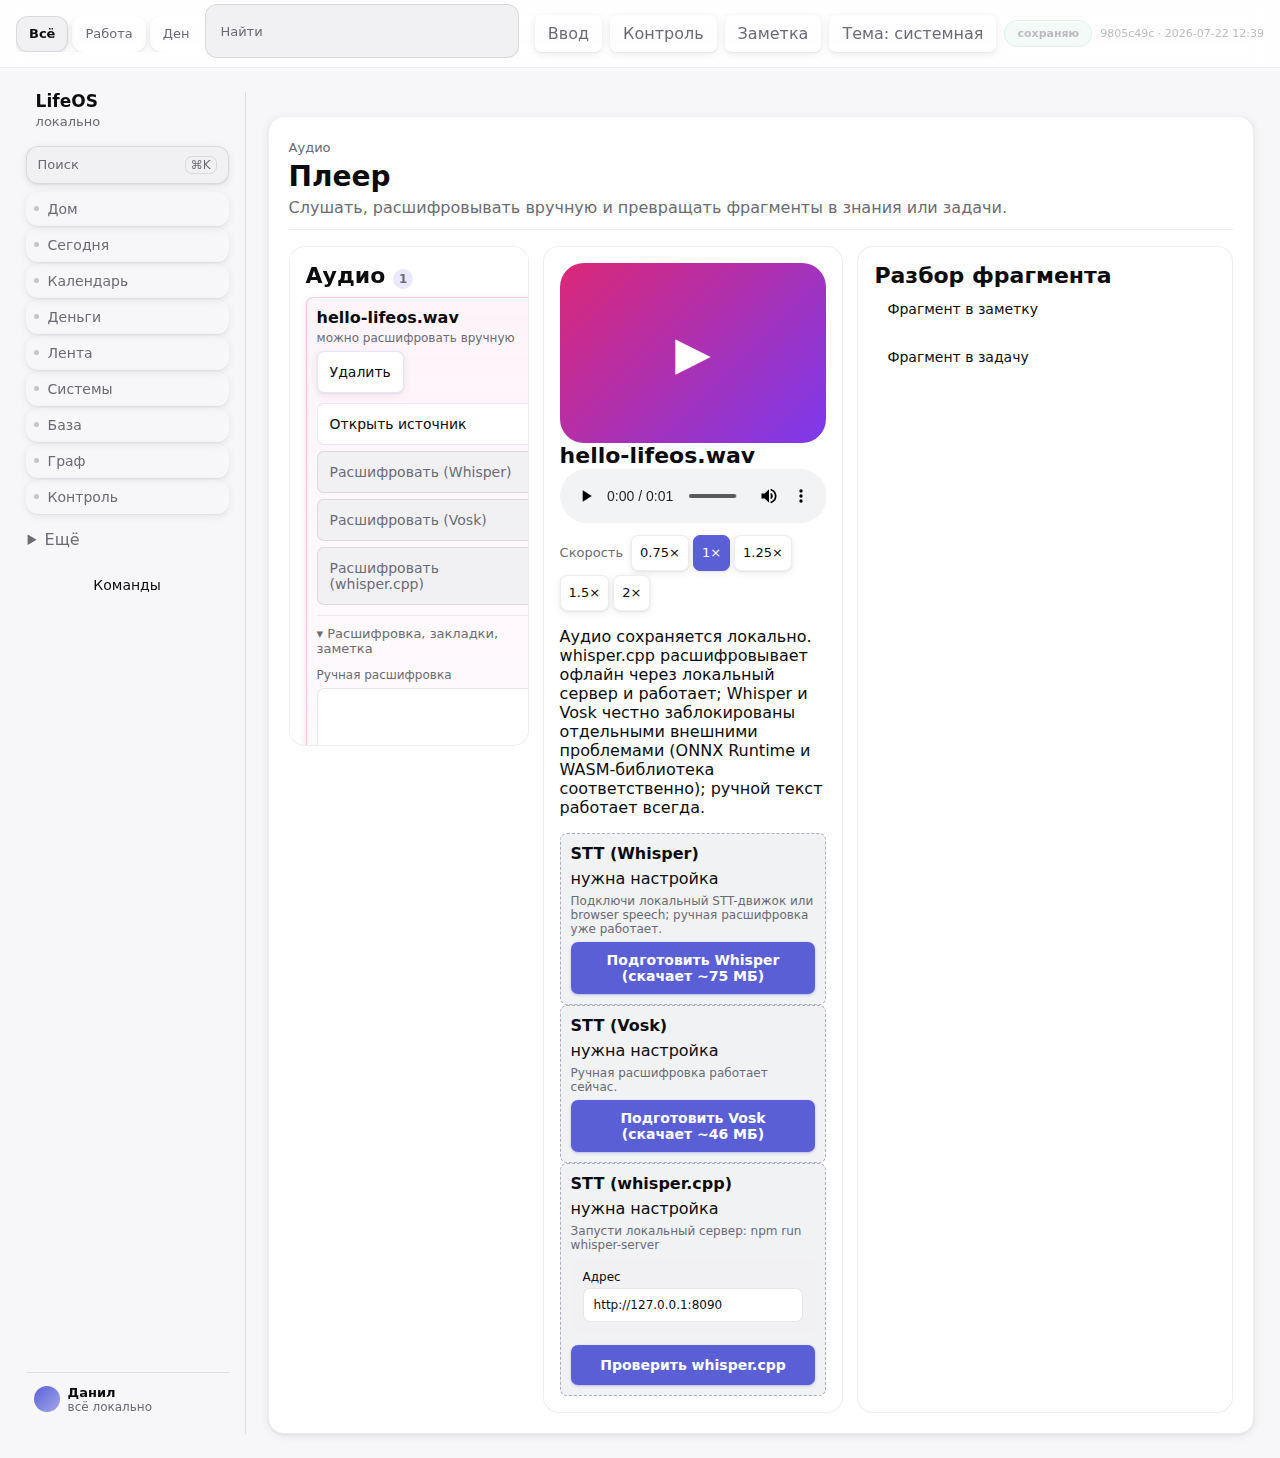
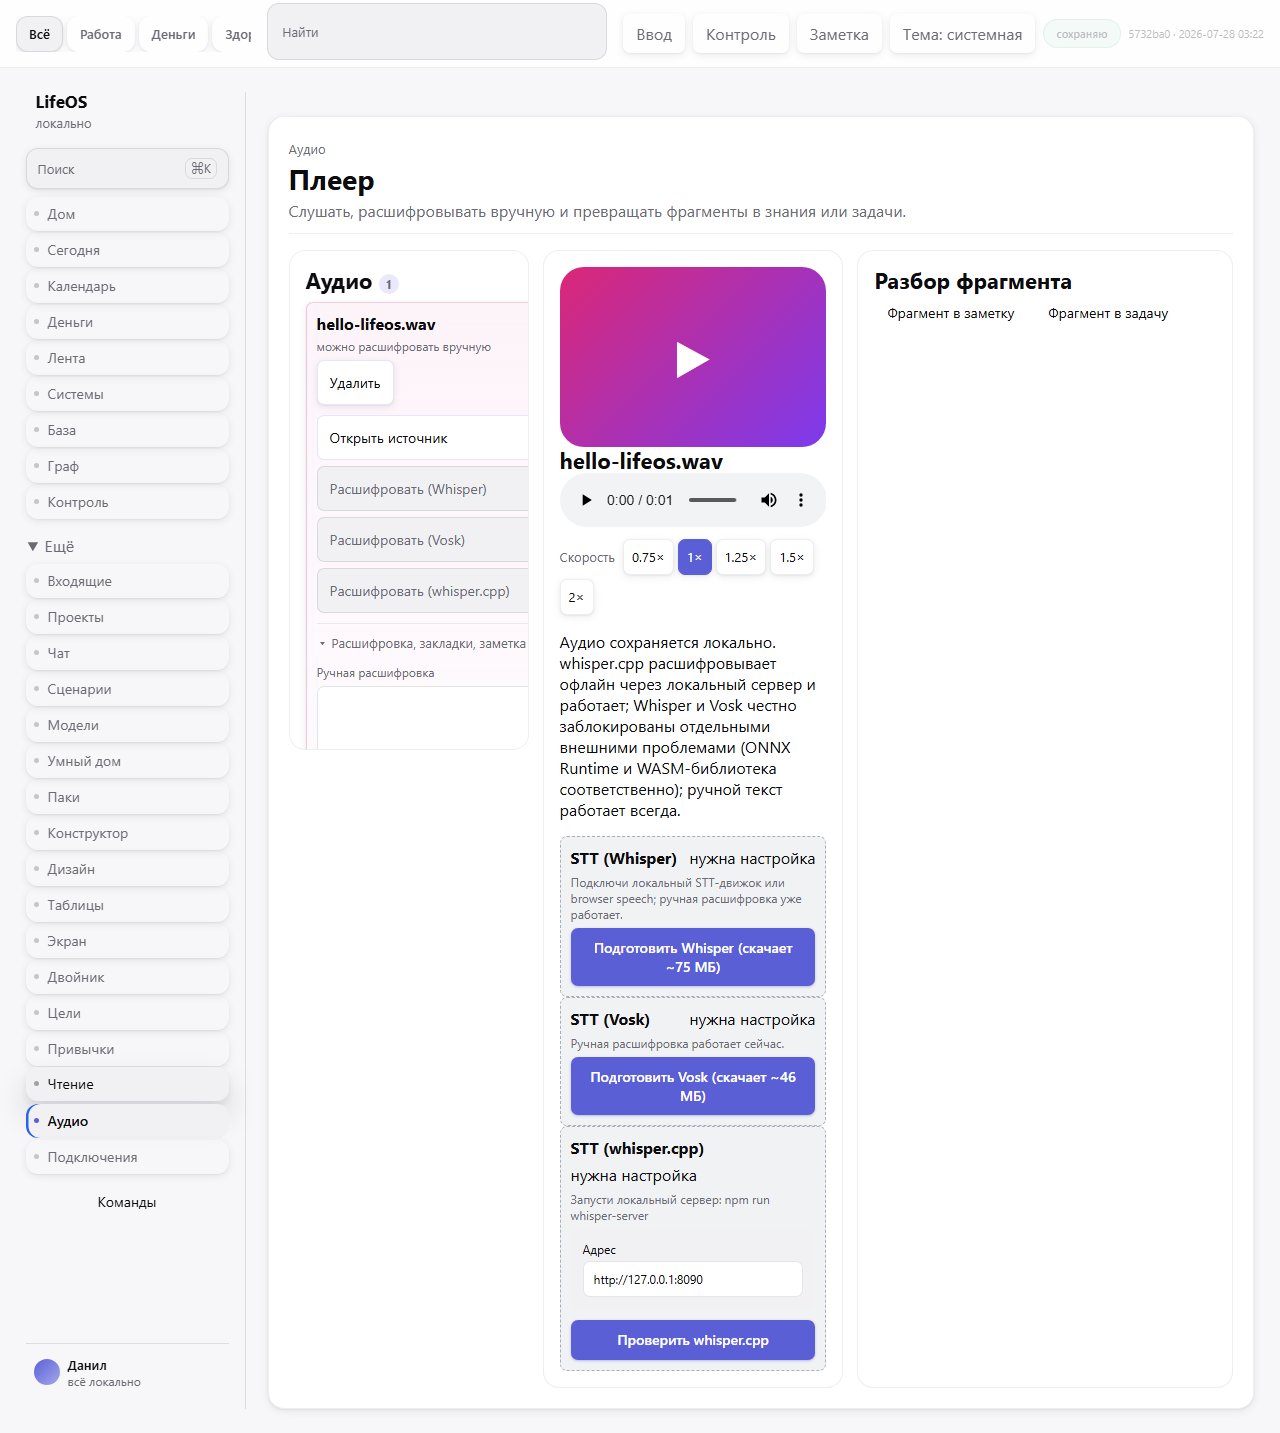
Вторичное меню «Ещё» больше не закрывается под рукой
Меню было родным <details>, а перерисовка заменяет весь DOM после ЛЮБОГО
действия — раскрытие терялось мгновенно. Экраны «Аудио», «Чтение», «Чат» живут
именно там, поэтому путь к ним рвался: владелец писал «нажимаешь — всё
ломается», а спека про плеер падала не на плеере, а на невидимой кнопке.

Раскрытие теперь живёт в состоянии (navMoreOpen, добавлено И в дефолты, И в
normalizeState — иначе стёрлось бы молча). Тот же приём в репозитории уже дважды
применён: для тулбара чата и настроек графа, и для сворачиваемых панелей.

Сторож: nav-more-stays-open.spec.mjs — раскрывает меню, делает действие,
проверяет что оно пережило перерисовку, и доходит кликом до экрана «Аудио».

Побочно починилось: reader-position-bookmarks (аудио-закладки) — падала
именно на этом, а не на закладках.

Гейты: 13/13 по экранам, ходящим через это меню (панели, поиск, быстрые
действия Дома, голосовой круг whisper.cpp, первый экран). verify, 27 из 28
аудитов, build-public.

diff --git a/app.js b/app.js
@@ -1210,6 +1210,10 @@ function createInitialState() {
     // расшифровывается, расшифровано, звука нет) всегда берётся из самой записи при отрисовке,
     // иначе на экране жила бы вторая, устаревающая копия правды.
     captureAttachments: [],
+    // Вторичное меню «Ещё». Родной <details> схлопывается на КАЖДОЙ перерисовке, а перерисовка
+    // идёт после любого действия: владелец раскрывал меню, оно закрывалось под рукой, и путь к
+    // экранам «Аудио», «Чтение», «Чат» рвался. Состояние раскрытия живёт здесь.
+    navMoreOpen: false,
     chatDraft: "",
     commandMessage: "Локальное хранилище готово",
     lastSavedAt: "",
@@ -2663,6 +2667,7 @@ function normalizeState(input) {
     lensDraft: normalizeLensDraft(base.lensDraft),
     panelOpen: normalizePanelOpen(base.panelOpen),
     captureDraft: String(base.captureDraft || ""),
+    navMoreOpen: Boolean(base.navMoreOpen),
     captureAttachments: Array.isArray(base.captureAttachments) ? base.captureAttachments.filter((id) => typeof id === "string" && id).slice(-8) : [],
     commandMessage: base.commandMessage || "Локальное хранилище готово",
     lastSavedAt: base.lastSavedAt || "",
@@ -13082,6 +13087,7 @@ function buildNewShellContext(state, activeNote, runtimeSignals = {}) {
     audioSources: sources.filter((source) => source.kind === "audio"),
     bookSources: sources.filter(isBookSource),
     budgets: Object.values(state.budgets || {}).filter((item) => !item.deleted),
+    navMoreOpen: Boolean(state.navMoreOpen),
     captureDraft: state.captureDraft || "",
     // Статус каждого прикреплённого файла считается ЗДЕСЬ, из самой записи, а не хранится
     // рядом с идентификатором: иначе на экране жила бы устаревающая копия правды.
@@ -23144,6 +23150,12 @@ async function handleAction(action, id) {
   }
   if (action === "delete-saved-search") {
     await store.commit("Сохраненный поиск удален", (state) => deleteSavedSearch(state, id));
+    return;
+  }
+  if (action === "toggle-nav-more") {
+    await store.commit("Вторичное меню переключено", (state) => {
+      state.navMoreOpen = !state.navMoreOpen;
+    });
     return;
   }
   if (action === "set-surface") {

diff --git a/public-demo/app.js b/public-demo/app.js
@@ -1210,6 +1210,10 @@ function createInitialState() {
     // расшифровывается, расшифровано, звука нет) всегда берётся из самой записи при отрисовке,
     // иначе на экране жила бы вторая, устаревающая копия правды.
     captureAttachments: [],
+    // Вторичное меню «Ещё». Родной <details> схлопывается на КАЖДОЙ перерисовке, а перерисовка
+    // идёт после любого действия: владелец раскрывал меню, оно закрывалось под рукой, и путь к
+    // экранам «Аудио», «Чтение», «Чат» рвался. Состояние раскрытия живёт здесь.
+    navMoreOpen: false,
     chatDraft: "",
     commandMessage: "Локальное хранилище готово",
     lastSavedAt: "",
@@ -2663,6 +2667,7 @@ function normalizeState(input) {
     lensDraft: normalizeLensDraft(base.lensDraft),
     panelOpen: normalizePanelOpen(base.panelOpen),
     captureDraft: String(base.captureDraft || ""),
+    navMoreOpen: Boolean(base.navMoreOpen),
     captureAttachments: Array.isArray(base.captureAttachments) ? base.captureAttachments.filter((id) => typeof id === "string" && id).slice(-8) : [],
     commandMessage: base.commandMessage || "Локальное хранилище готово",
     lastSavedAt: base.lastSavedAt || "",
@@ -13082,6 +13087,7 @@ function buildNewShellContext(state, activeNote, runtimeSignals = {}) {
     audioSources: sources.filter((source) => source.kind === "audio"),
     bookSources: sources.filter(isBookSource),
     budgets: Object.values(state.budgets || {}).filter((item) => !item.deleted),
+    navMoreOpen: Boolean(state.navMoreOpen),
     captureDraft: state.captureDraft || "",
     // Статус каждого прикреплённого файла считается ЗДЕСЬ, из самой записи, а не хранится
     // рядом с идентификатором: иначе на экране жила бы устаревающая копия правды.
@@ -23144,6 +23150,12 @@ async function handleAction(action, id) {
   }
   if (action === "delete-saved-search") {
     await store.commit("Сохраненный поиск удален", (state) => deleteSavedSearch(state, id));
+    return;
+  }
+  if (action === "toggle-nav-more") {
+    await store.commit("Вторичное меню переключено", (state) => {
+      state.navMoreOpen = !state.navMoreOpen;
+    });
     return;
   }
   if (action === "set-surface") {

diff --git a/public-demo/ui/shell.js b/public-demo/ui/shell.js
@@ -73,7 +73,9 @@ function renderNav(ctx) {
     // Открывает уже существующую палитру команд — не новый механизм.
     `<button class="nav-search-v3" data-action="open-command-palette" data-testid="nav-search-v3">Поиск<span>⌘K</span></button>`,
     `<nav data-testid="home-workspace-rail">${primaryNav.map((row) => navButton(ctx, row)).join("")}</nav>`,
-    `<details class="nav-more" data-testid="app-ribbon"><summary>Ещё</summary><div>${secondaryNav.map((row) => navButton(ctx, row)).join("")}</div></details>`,
+    // Раскрытие «Ещё» держится состоянием, а не браузером: родной <details> теряет открытость на
+    // каждой перерисовке, а она случается после любого действия — меню закрывалось под рукой.
+    `<details class="nav-more" data-testid="app-ribbon"${ctx.navMoreOpen ? " open" : ""}><summary data-action="toggle-nav-more">Ещё</summary><div>${secondaryNav.map((row) => navButton(ctx, row)).join("")}</div></details>`,
     button("open-command-palette", "Команды", { kind: "ghost", testId: "open-command-palette" }),
     // V3-DESIGN: блок владельца внизу панели — «всё локально» как постоянное напоминание границы (§7).
     `<div class="nav-owner-v3" data-testid="nav-owner-v3"><span class="nav-owner-dot"></span><div><strong>Данил</strong><em>всё локально</em></div></div>`,

diff --git a/ui/shell.js b/ui/shell.js
@@ -73,7 +73,9 @@ function renderNav(ctx) {
     // Открывает уже существующую палитру команд — не новый механизм.
     `<button class="nav-search-v3" data-action="open-command-palette" data-testid="nav-search-v3">Поиск<span>⌘K</span></button>`,
     `<nav data-testid="home-workspace-rail">${primaryNav.map((row) => navButton(ctx, row)).join("")}</nav>`,
-    `<details class="nav-more" data-testid="app-ribbon"><summary>Ещё</summary><div>${secondaryNav.map((row) => navButton(ctx, row)).join("")}</div></details>`,
+    // Раскрытие «Ещё» держится состоянием, а не браузером: родной <details> теряет открытость на
+    // каждой перерисовке, а она случается после любого действия — меню закрывалось под рукой.
+    `<details class="nav-more" data-testid="app-ribbon"${ctx.navMoreOpen ? " open" : ""}><summary data-action="toggle-nav-more">Ещё</summary><div>${secondaryNav.map((row) => navButton(ctx, row)).join("")}</div></details>`,
     button("open-command-palette", "Команды", { kind: "ghost", testId: "open-command-palette" }),
     // V3-DESIGN: блок владельца внизу панели — «всё локально» как постоянное напоминание границы (§7).
     `<div class="nav-owner-v3" data-testid="nav-owner-v3"><span class="nav-owner-dot"></span><div><strong>Данил</strong><em>всё локально</em></div></div>`,

diff --git a/index.html b/index.html
@@ -3,7 +3,7 @@
   <head>
     <meta charset="utf-8" />
     <meta name="viewport" content="width=device-width, initial-scale=1" />
-    <meta name="build-version" content="5732ba0 · 2026-07-28 03:22" />
+    <meta name="build-version" content="2664b2a · 2026-07-28 03:47" />
     <meta name="theme-color" content="#0f3443" />
     <meta name="application-name" content="LifeOS" />
     <meta name="apple-mobile-web-app-capable" content="yes" />

diff --git a/public-demo/index.html b/public-demo/index.html
@@ -3,7 +3,7 @@
   <head>
     <meta charset="utf-8" />
     <meta name="viewport" content="width=device-width, initial-scale=1" />
-    <meta name="build-version" content="5732ba0 · 2026-07-28 03:22" />
+    <meta name="build-version" content="2664b2a · 2026-07-28 03:47" />
     <meta name="theme-color" content="#0f3443" />
     <meta name="application-name" content="LifeOS" />
     <meta name="apple-mobile-web-app-capable" content="yes" />

diff --git a/service-worker.js b/service-worker.js
@@ -1,4 +1,4 @@
-const LIFEOS_CACHE = "lifeos-v34-5732ba0";
+const LIFEOS_CACHE = "lifeos-v34-2664b2a";
 const SHELL_ASSETS = [
   "/",
   "/index.html",
